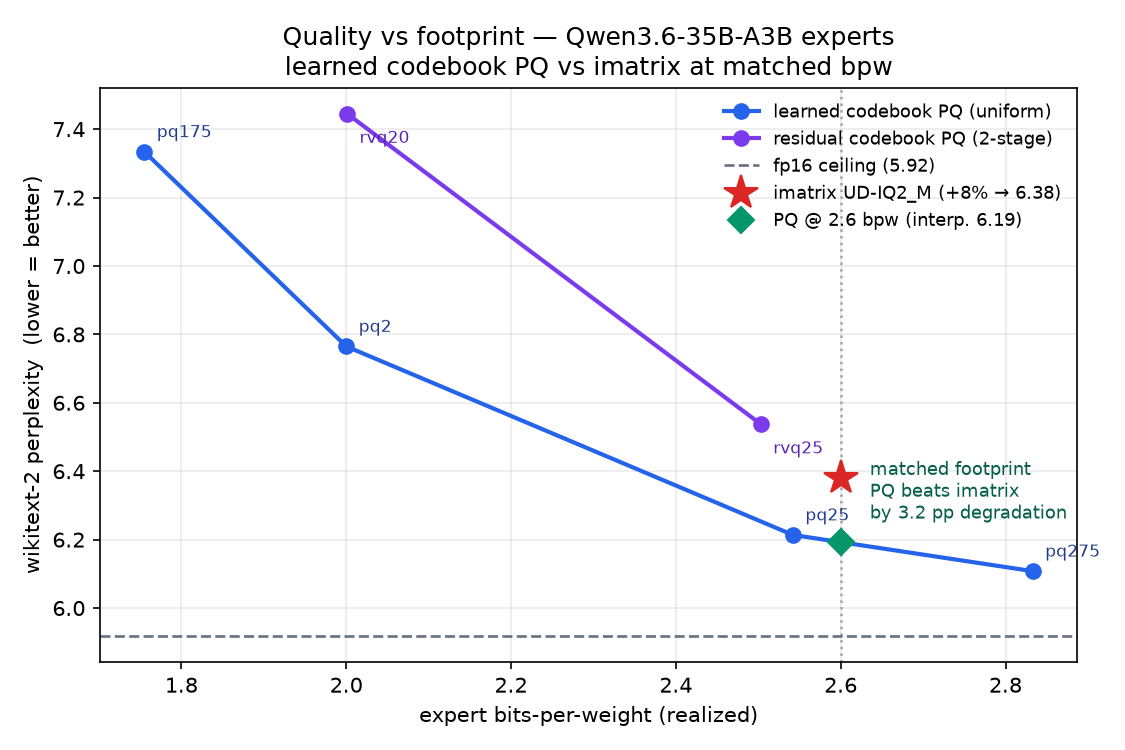
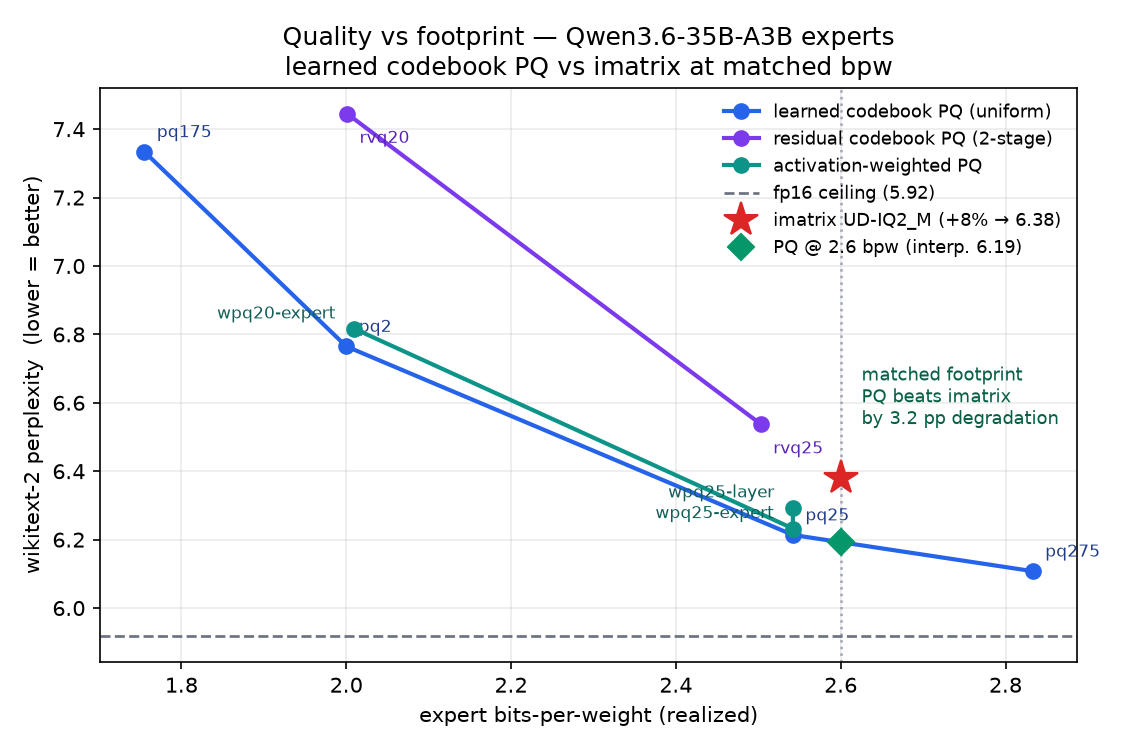
docs: Phase-7 activation-weighted PQ results

diff --git a/experiments/plot_quality_vs_bpw.py b/experiments/plot_quality_vs_bpw.py
@@ -42,7 +42,7 @@ class Family:
 # by exclusion rather than by prefix — adding a family means adding a row here and nothing else.
 FAMILIES = (
     Family("rvq", "#7c3aed", "#5b21b6", "residual codebook PQ (2-stage)", (6, -14)),
-    Family("wpq", "#0d9488", "#115e59", "activation-weighted PQ", (6, 7)),
+    Family("wpq", "#0d9488", "#115e59", "activation-weighted PQ", (-9, 5)),
 )
 
 
@@ -78,8 +78,11 @@ def draw_curve(ax, pts: list[tuple[float, float, str]], color: str, annot_color:
     xs, ys, _ = zip(*pts)
     ax.plot(xs, ys, "o-", color=color, lw=2, ms=7, label=legend, zorder=3)
     for x, y, name in pts:
+        # a negative x offset means "label to the left", so anchor the text's right edge —
+        # families sharing a footprint must lean opposite ways or their labels stack
         ax.annotate(name.replace(strip, ""), (x, y), textcoords="offset points",
-                    xytext=offset, fontsize=8, color=annot_color)
+                    xytext=offset, fontsize=8, color=annot_color,
+                    ha="right" if offset[0] < 0 else "left")
 
 
 def render(rows: list[dict[str, Any]], out: Path) -> dict[str, float]:
@@ -103,9 +106,11 @@ def render(rows: list[dict[str, Any]], out: Path) -> dict[str, float]:
             label=f"PQ @ {IMATRIX_BPW} bpw (interp. {pq_at_imatrix:.2f})", zorder=4)
 
     gap_pct = (imatrix_ppl - pq_at_imatrix) / fp16 * 100
+    # placed above the imatrix marker: the 2.5-2.6 band is crowded with same-footprint points
+    # (pq25 and both wpq25 arms all sit at 2.542), so an offset to the right overlaps them
     ax.annotate(f"matched footprint\nPQ beats imatrix\nby {gap_pct:.1f} pp degradation",
-                (IMATRIX_BPW, (imatrix_ppl + pq_at_imatrix) / 2),
-                textcoords="offset points", xytext=(14, -4), fontsize=8.5, color="#065f46")
+                (IMATRIX_BPW, imatrix_ppl), textcoords="offset points", xytext=(10, 26),
+                fontsize=8.5, color="#065f46", ha="left")
 
     ax.set_xlabel("expert bits-per-weight (realized)")
     ax.set_ylabel("wikitext-2 perplexity  (lower = better)")

diff --git a/docs/experiments/bits-per-brain.md b/docs/experiments/bits-per-brain.md
@@ -248,6 +248,65 @@ codebook does not widen the margin. A true *additive* second codebook (more bits
 re-split) is a different, unmatched comparison and out of scope. Design:
 [`docs/specs/2026-07-28-residual-vq-phase6-design.md`](../specs/2026-07-28-residual-vq-phase6-design.md).
 
+### Phase 7 — activation-weighted first-order PQ (matched footprint)
+
+Phase 6a's negative had a confound: [`lloyd_kmeans`](../../src/smart_quant/codebook.py) minimizes raw
+weight MSE, treating every weight as equally important, so it may have tested *naive* residual VQ
+rather than residual VQ. Real VPTQ is Hessian-weighted. Phase 7 isolates that variable — importance
+weighting on the **first-order** quantizer, no residual stages — asking whether spending codebook
+resolution where activations are large beats uniform PQ at matched footprint.
+
+Importance is `E[x_j²]` per input channel, profiled over 512 C4 rows by
+[`ActivationImportanceProfiler`](../../src/smart_quant/expert_importance.py). Because sub-vectors run
+along the *input* dim (fused experts are `(num_experts, out_features, in_features)`), a sub-vector's
+four coordinates carry four different weights — so the fit uses **per-dimension weighted k-means**, not
+a per-sample scalar. Weights steer centroid placement and nothing else, so realized `expert_bpw` is
+*identical* to the unweighted pair by construction: `wpq25-expert` and `pq25-uniform` both land at
+2.542. No budget search, the cleanest matched comparison in the study.
+
+| footprint | uniform PQ | weighted (per-expert) | weighted (per-layer) |
+|---|---|---|---|
+| ~2.0 bpw | `pq2` 6.765 | `wpq20-expert` (2.01) **6.8163** | — |
+| ~2.5 bpw | `pq25` (2.542) 6.2137 | `wpq25-expert` (2.542) **6.2325** | `wpq25-layer` (2.542) **6.2931** |
+
+**Verdict — negative, and both escape hatches are closed.** Weighting loses at both footprints (0.051
+and 0.019), and the two explanations that would have made this a plumbing result rather than a finding
+were tested and rejected:
+
+- *Per-expert statistics too noisy?* No. At top-8 of 256 the tail experts see few tokens, so this was
+  the live risk. But per-expert (6.2325) **beats** per-layer (6.2931) by 0.061 — three times its own
+  loss to uniform. Had the per-expert signal been noise, the far better-conditioned layer marginal
+  would have won. Specialization carries real information in the predicted direction.
+- *Fit degenerating on outlier channels?* Marginally real, nowhere near enough. Per-expert importance
+  spans 18,400x (0.05–915 on a mean-1 scale), so a few hot channels capturing every centroid was
+  plausible. Sweeping the `alpha` compression knob (`w**alpha`, all at 2.542 bpw) rules it out as the
+  explanation:
+
+  | alpha | dynamic range | ppl | vs uniform |
+  |---|---|---|---|
+  | 0 (≡ uniform) | 1x | 6.2137 | — |
+  | 0.25 | 12x | 6.2645 | -0.051 |
+  | 0.5 | 142x | 6.2616 | -0.048 |
+  | **0.75** | 1,610x | **6.2253** | **-0.012** |
+  | 1.0 | 18,400x | 6.2325 | -0.019 |
+
+  The response is non-monotonic: *heavy* compression is worst, and mild compression (`alpha=0.75`) is
+  the best weighted variant, beating pure `alpha=1.0` by 0.007. So outlier sensitivity exists — but the
+  best setting the knob can reach still loses to uniform by 0.012, and no setting reaches it. The
+  ceiling of the method is below the baseline, which is not a tuning problem.
+
+So the weighted-MSE objective simply is not aligned with perplexity for this quantizer. Note the
+magnitude though: weighting is roughly *neutral* (0.02–0.05) where residual VQ was clearly *harmful*
+(0.32–0.68), an order of magnitude closer to the baseline — these are not the same kind of failure and
+the Phase-7 line sits just above the uniform curve rather than well above it.
+
+**Three strikes, one conclusion.** Phase 3 (expert-level bit allocation), Phase 6a (second-order
+residual codebooks) and Phase 7 (activation weighting) each tried to beat uniform first-order PQ by
+allocating capacity non-uniformly, and each lost at matched footprint. On this architecture, at this
+bit range, uniform PQ with a shared codebook is a hard baseline — and it is still the thing that beats
+imatrix by 3.2 pp. Design:
+[`docs/specs/2026-07-29-weighted-pq-phase7-design.md`](../specs/2026-07-29-weighted-pq-phase7-design.md).
+
 ## Phases
 
 1. **Baselines** — load fp16, run eval harness; pull + eval UD-IQ2_M and AWQ-4bit. (fits 80 GB)
